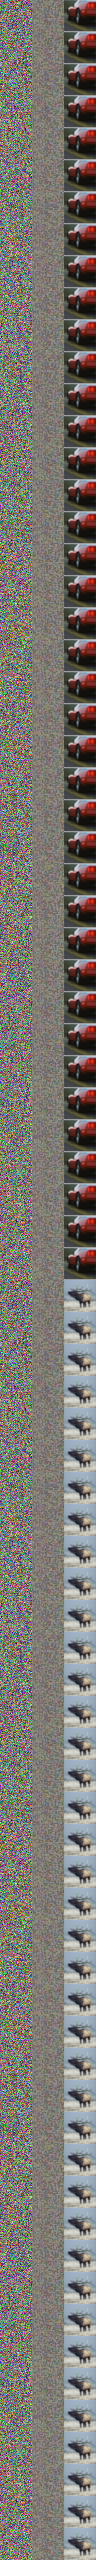
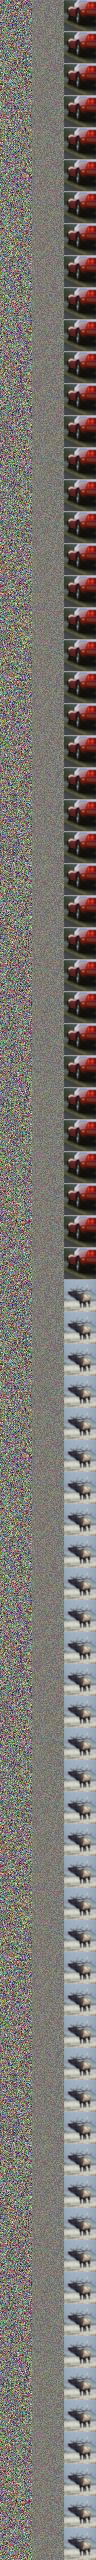
correcting sampling

Changed region(s): [[0.3125, 0.0, 0.6875, 1.0]]

diff --git a/diffusion_model.py b/diffusion_model.py
@@ -60,8 +60,7 @@ class TrainState(train_state.TrainState):
             self.sqrtab[_ts, None, None, None] * x
             + self.sqrtmab[_ts, None, None, None] * noise
         )  # (B, H, W, 3)
-        context_mask = jax.random.bernoulli(
-            c_rng, self.drop_prob, c.shape)  # (B,)
+        context_mask = jnp.zeros((x_t.shape[0],))  # (n_samples,)
         kwargs["c"] = c
         kwargs["t"] = _ts/self.n_T  # (B,)
         kwargs["context_mask"] = context_mask
@@ -79,30 +78,18 @@ class TrainState(train_state.TrainState):
 
         context_mask = jnp.zeros(c_i.shape)  # (n_samples,)
 
-        c_i = jnp.tile(c_i, 2)  # (2*n_samples,)
-        context_mask = jnp.tile(context_mask, 2)  # (2*n_samples.)
-        context_mask = context_mask.at[n_samples:].set(1.)  # (2*n_samples,)
-
-        x_i_store = []
-
         def body_fn(i, val):
             rng, x_i = val
-            idx = self.n_T - i
+            idx = self.n_T - i  # T -> 1: last to second
             _rng, rng = jax.random.split(rng)
             t_is = jnp.array([idx/self.n_T])  # (1,)
             t_is = jnp.tile(t_is, [n_samples])  # (n_samples,)
-
-            x_i = jnp.tile(x_i, [2, 1, 1, 1])  # (2*n_samples,H,W,3)
-            t_is = jnp.tile(t_is, [2])  # (2*n_samples,)
 
             # (n_samples, H,W,3)
             z = jnp.where(idx > 1, jax.random.normal(
                 _rng, new_size), jnp.zeros(new_size))
             eps = apply(x_i, c_i, t_is, context_mask)  # (2*n_samples,H,W,3)
-            eps1 = eps[:n_samples]  # (n_samples,H,W,3)
-            eps2 = eps[n_samples:]  # (n_samples,H,W,3)
-            eps = (1-guide_w)*eps1 - guide_w*eps2  # (n_samples,H,W,3)
-            x_i = x_i[:n_samples]  # (n_samples,H,W,3)
+            # stats["oneover_sqrta"] (T+1,)
             x_i = (
                 stats["oneover_sqrta"][idx] *
                 (x_i-eps*stats["mab_over_sqrtmab"][idx])
@@ -476,11 +463,10 @@ def main():
 
     parser.add_argument('--optim_ne', default=200, type=int,
                         help='the number of training epochs (default: 200)')
-    parser.add_argument('--optim_lr', default=1e-4, type=float,
+    parser.add_argument('--optim_lr', default=2e-4, type=float,
                         help='base learning rate (default: 1e-4)')
     parser.add_argument('--optim_weight_decay', default=0., type=float,
                         help='weight decay coefficient (default: 0.)')
-
     parser.add_argument('--save', default=None, type=str,
                         help='save the *.log and *.ckpt files if specified (default: False)')
     parser.add_argument('--seed', default=None, type=int,

diff --git a/models/ddpm.py b/models/ddpm.py
@@ -189,10 +189,10 @@ class ContextUnet(nn.Module):
         hiddenvec = self.gelu(hiddenvec)
 
         c = nn.activation.one_hot(c, num_classes=self.n_classes)  # (B,10)
-        context_mask = context_mask[:, None]  # (B,1)
-        context_mask = jnp.tile(context_mask, [1, self.n_classes])  # (B,10)
-        context_mask = -1*(1-context_mask)
-        c = c*context_mask  # (B,10)
+        # context_mask = context_mask[:, None]  # (B,1)
+        # context_mask = jnp.tile(context_mask, [1, self.n_classes])  # (B,10)
+        # context_mask = -1*(1-context_mask)
+        # c = c*context_mask  # (B,10)
 
         cemb1 = self.contextembed1(
             self.n_classes, 2*self.n_feat
@@ -331,12 +331,13 @@ class CondMLP(nn.Module):
         hiddenvec = self.avgpool2d(down2)  # (B,1,1,hidden_ch)
         hiddenvec = self.gelu(hiddenvec)
 
-        context_mask = context_mask[:, None, None, None]  # (B,1,1,1)
-        context_mask = jnp.tile(
-            context_mask, [1, 1, 1, self.hidden_ch])  # (B,1,1,hidden_ch)
-        context_mask = -1*(1-context_mask)
-        x_embed = hiddenvec*context_mask  # (B,1,1,hidden_ch)
-        x_embed = x_embed.reshape(-1, self.hidden_ch)  # (B,hidden_ch)
+        # context_mask = context_mask[:, None, None, None]  # (B,1,1,1)
+        # context_mask = jnp.tile(
+        #     context_mask, [1, 1, 1, self.hidden_ch])  # (B,1,1,hidden_ch)
+        # context_mask = -1*(1-context_mask)
+        # x_embed = hiddenvec*context_mask  # (B,1,1,hidden_ch)
+        # x_embed = x_embed.reshape(-1, self.hidden_ch)  # (B,hidden_ch)
+        x_embed = hiddenvec.reshape(-1, self.hidden_ch)
 
         t = self.embed_dense1(self.hidden_ch)(t[:, None])
         t = self.gelu(t)

diff --git a/dsb.py b/dsb.py
@@ -221,7 +221,7 @@ class TrainState(train_state.TrainState):
             eps = apply(x_n, t_n)  # (2*B, d)
             eps1 = eps[:n_samples]  # (B, d)
             eps2 = eps[n_samples:]  # (B, d)
-            eps = (1-guide_w)*eps1 - guide_w*eps2  # (B, d)
+            eps = (1+guide_w)*eps1 - guide_w*eps2  # (B, d)
             x_n = x_n[:n_samples]  # (B, d)
             x_n = (
                 stats["oneover_sqrta"][idx] *
